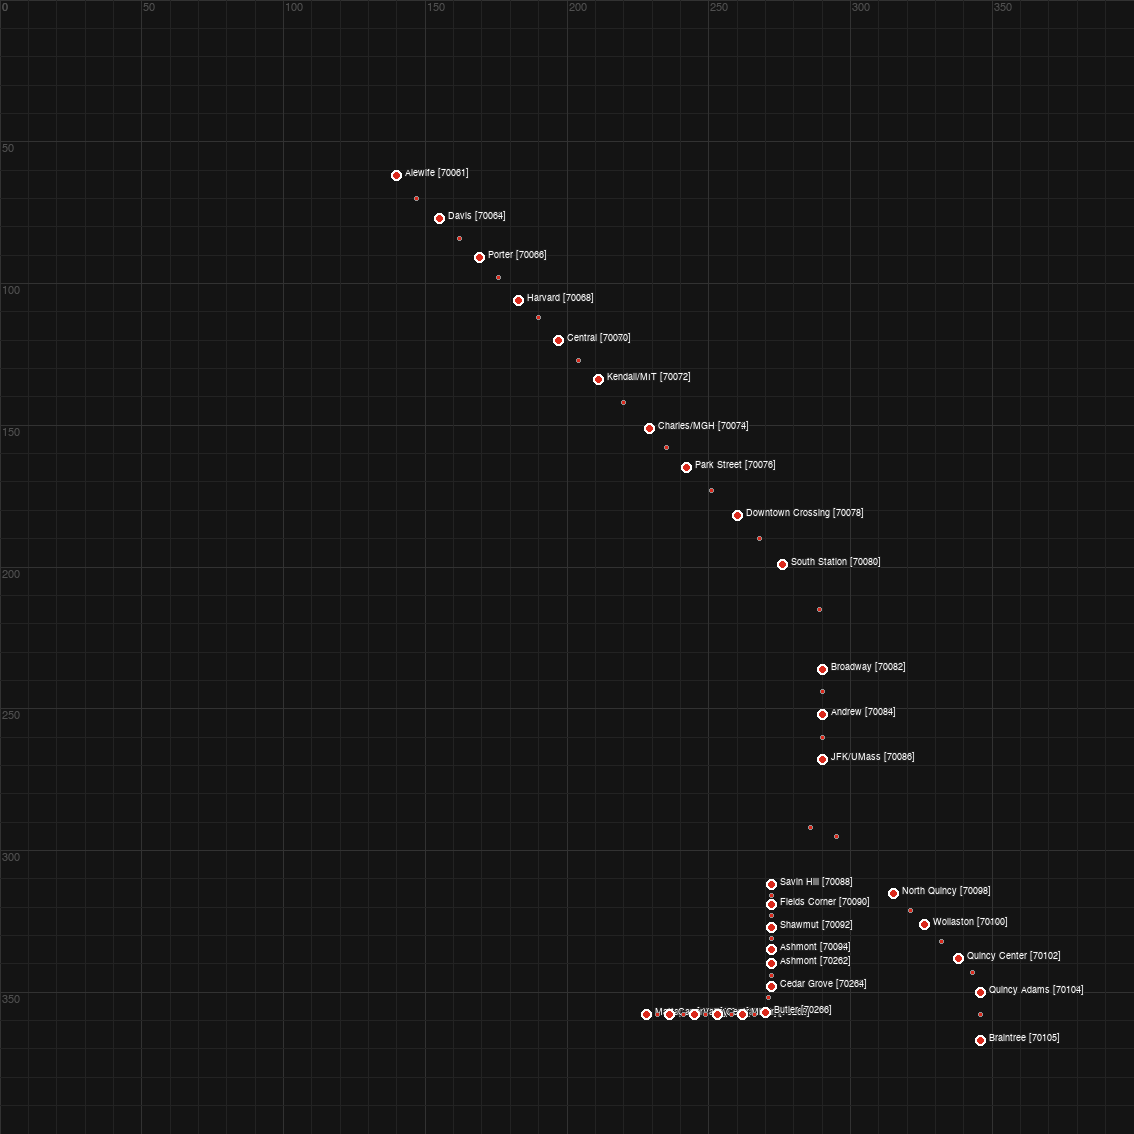
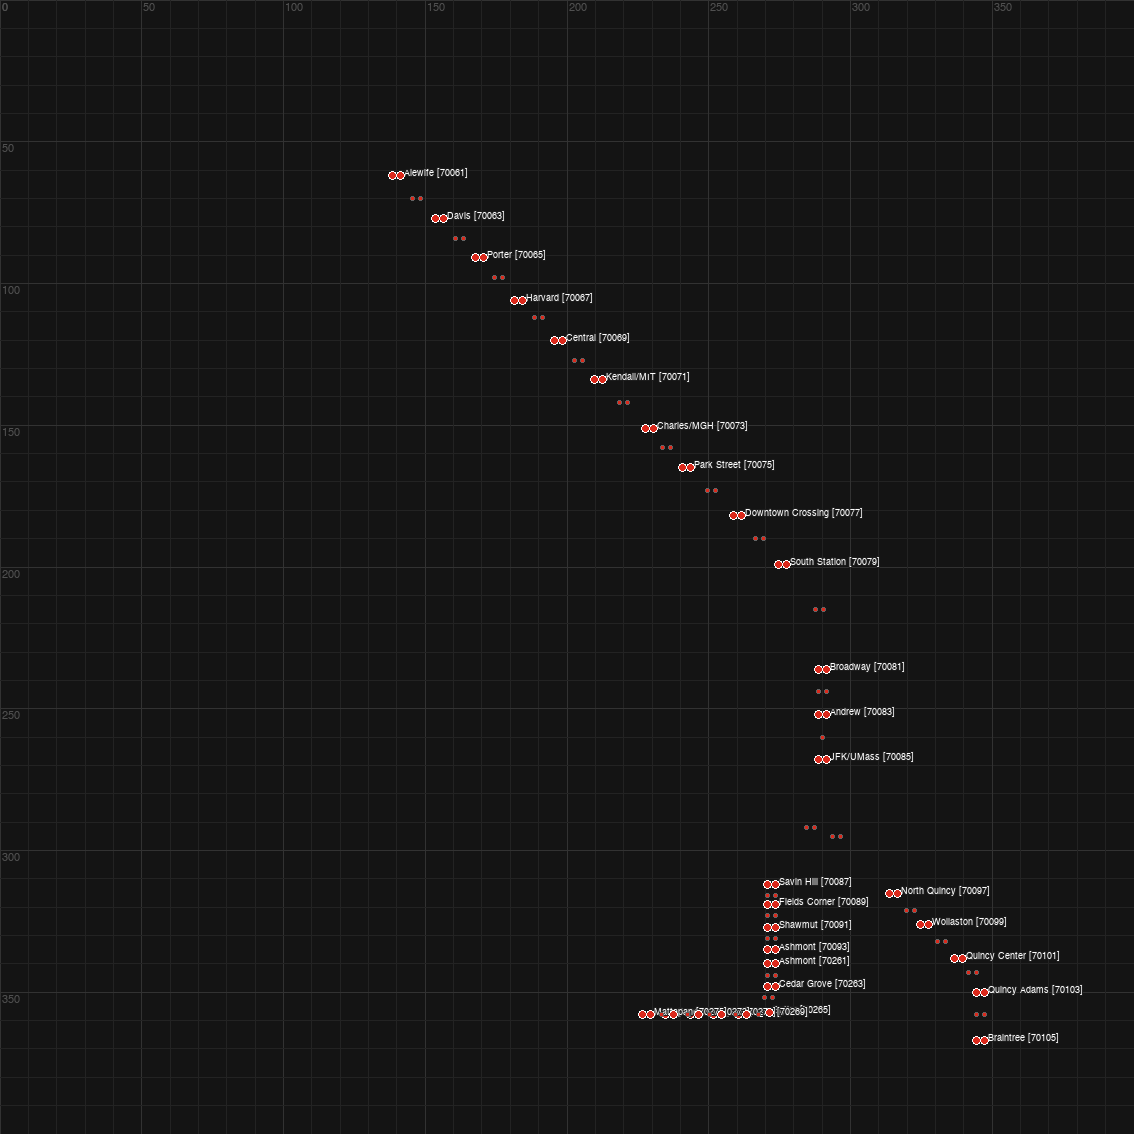
Show paired direction LEDs in grid visualization
Offset co-located LEDs (inbound/outbound at same station) by 3mm so
both are visible. JFK/UMass correctly shows 4 dots. Midpoints also
show direction pairs. Labels show once per station with stop_id.

diff --git a/tools/draw_led_grid.py b/tools/draw_led_grid.py
@@ -66,23 +66,50 @@ def draw_grid_labels(draw, font):
 
 
 def draw_leds(draw, leds, color, font):
+    # Offset distance in pixels between direction_id 0 and 1 LEDs
+    OFFSET_PX = int(3 * MM)  # 3mm apart
+
+    # Group LEDs by (stop_name, x, y) to detect co-located pairs
+    from collections import Counter
+    loc_counts = Counter((led["x"], led["y"]) for led in leds)
+
+    # Track which locations we've already labeled
+    labeled = set()
+
     for led in leds:
-        px, py = mm2px(led["x"], led["y"])
+        base_px, base_py = mm2px(led["x"], led["y"])
         is_station = led["type"] == "station"
+        has_pair = loc_counts[(led["x"], led["y"])] > 1
+
+        # Offset co-located LEDs perpendicular to avoid overlap
+        if has_pair:
+            # direction_id 0 shifts left, 1 shifts right
+            offset = -OFFSET_PX // 2 if led["direction_id"] == 0 else OFFSET_PX // 2
+            px = base_px + offset
+            py = base_py
+        else:
+            px, py = base_px, base_py
 
         if is_station:
-            r = 5
+            r = 4
             draw.ellipse([(px - r, py - r), (px + r, py + r)],
-                         fill=color, outline="white", width=2)
-            stop = led["stop_id"] or "?"
-            name = led["stop_name"]
-            label = f"{name} [{stop}]"
-            draw.text((px + 9, py - 6), label, fill="white", font=font,
-                      stroke_width=1, stroke_fill=(30, 30, 30))
+                         fill=color, outline="white", width=1)
+
+            # Label once per location (not twice for each direction)
+            loc_key = (led["x"], led["y"], led["stop_name"])
+            if loc_key not in labeled:
+                labeled.add(loc_key)
+                stop = led["stop_id"] or "?"
+                name = led["stop_name"]
+                dir_label = "SB" if led["direction_id"] == 0 else "NB"
+                label = f"{name} [{stop}]"
+                draw.text((base_px + OFFSET_PX, base_py - 6), label,
+                          fill="white", font=font,
+                          stroke_width=1, stroke_fill=(30, 30, 30))
         else:
             r = 2
             draw.ellipse([(px - r, py - r), (px + r, py + r)],
-                         fill=color, outline=(150, 150, 150))
+                         fill=color, outline=(100, 100, 100))
 
 
 def main():
